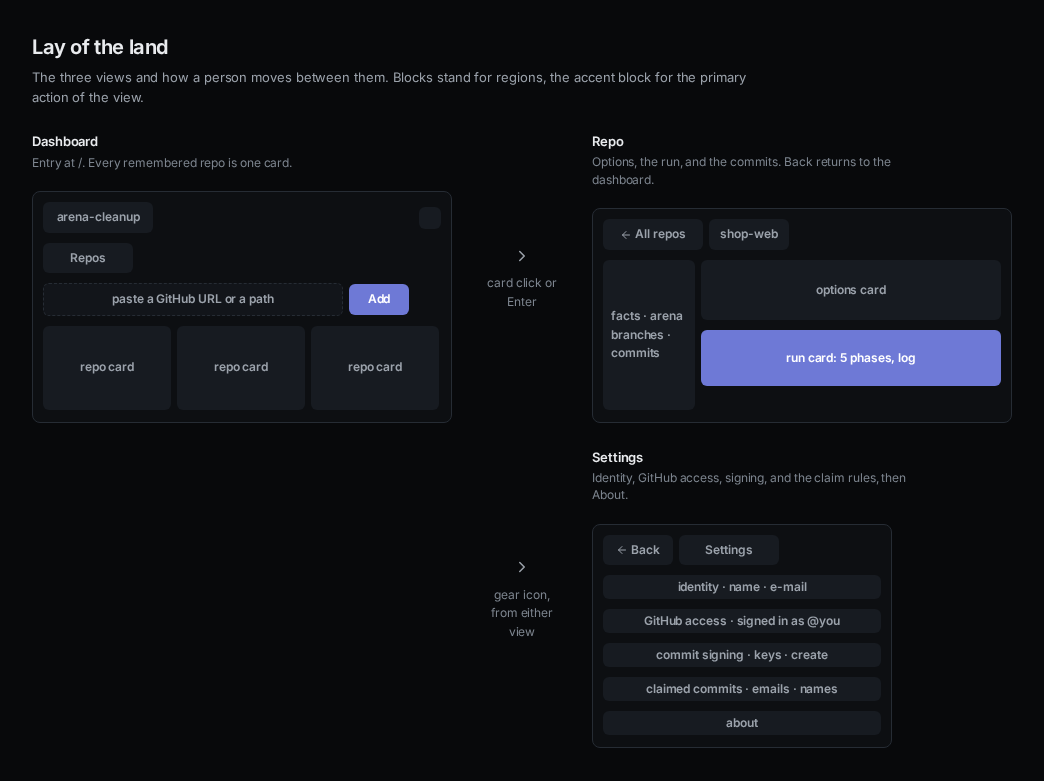
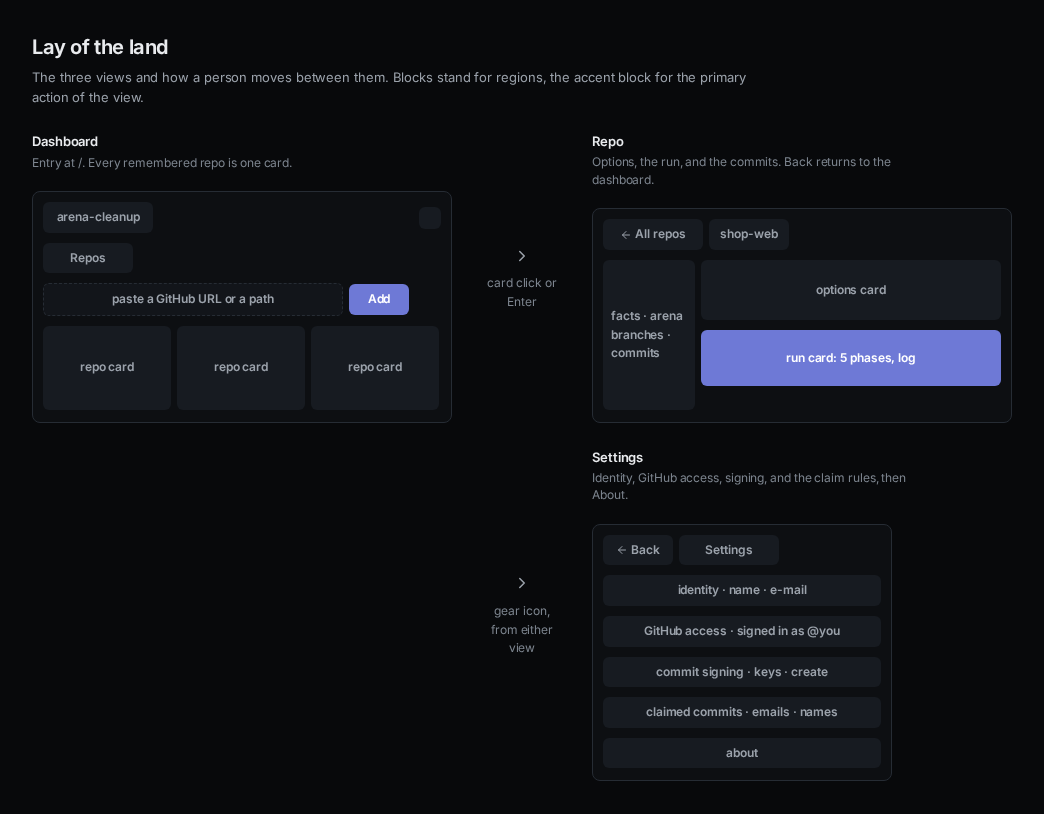
fix(docs): wireframe blocks grow with their text and marks use glyphs

diff --git a/scripts/design_boards.py b/scripts/design_boards.py
@@ -121,6 +121,10 @@ BOARD_CSS = """
   color: var(--muted); padding: 6px 8px; }
 .wf .blk.lbl.hi { color: #fff; }
 .wf .bar { display: flex; gap: 6px; align-items: center; }
+.wf .wbox { display: inline-flex; width: 12px; height: 12px; margin-right: 6px; align-items: center;
+  justify-content: center; border: 1px solid var(--line-2); border-radius: 3px; font-size: 10px; }
+.wf .wbox.on { background: var(--accent); border-color: var(--accent); color: #fff; }
+.wf .down { transform: rotate(90deg); }
 .wf .arrow { align-self: center; color: var(--dim); font-size: var(--fs-1); display: flex; flex-direction: column;
   align-items: center; gap: 4px; padding: 0 4px; width: 92px; text-align: center; }
 .wf .arrow b { font-size: 18px; color: var(--muted); }
@@ -209,10 +213,17 @@ def block(
   )
   style = ";".join(
     s
-    for s in (f"height:{height}px" if height else "", f"width:{width}" if width else "")
+    for s in (
+      f"min-height:{height}px" if height else "",
+      f"width:{width}" if width else "",
+    )
     if s
   )
   return f'<div class="{cls}" style="{style}">{label}</div>'
+
+
+def wbox(on: bool) -> str:
+  return f'<span class="wbox{" on" if on else ""}">{icon("check") if on else ""}</span>'
 
 
 def frame(title: str, sub: str, body: str) -> str:
@@ -312,7 +323,12 @@ def flow_board(_: dict[str, bytes]) -> str:
 def wireframe_board(_: dict[str, bytes]) -> str:
   column = '<div class="col" style="flex:1;gap:8px;align-items:stretch">'
   options = (
-    block("Options ▾ — main (default) · defaults", height=28)
+    block(
+      "Options "
+      + icon("chevron-right", "ico-svg down")
+      + " — main (default) · defaults",
+      height=28,
+    )
     + '<div class="bar" style="align-items:flex-start;gap:10px">'
     + column
     + block("Target branch | main (default)", height=28)
@@ -324,20 +340,20 @@ def wireframe_board(_: dict[str, bytes]) -> str:
     + block("PR check timeout | slider, 0 to 120 min | 15 min", height=28)
     + '<div class="bar" style="flex-wrap:wrap">'
     + "".join(
-      block(t, height=24, width="auto")
-      for t in (
-        "☐ Dry Run",
-        "☐ Ignore PR Checks",
-        "☐ Keep Empty Commits",
-        "☑ Update Tags",
-        "☐ Force Push",
+      block(wbox(on) + t, height=24, width="auto")
+      for t, on in (
+        ("Dry Run", False),
+        ("Ignore PR Checks", False),
+        ("Keep Empty Commits", False),
+        ("Update Tags", True),
+        ("Force Push", False),
       )
     )
     + "</div></div></div>"
   )
   run = (
     '<div class="bar">'
-    + block("● idle", width="60px")
+    + block(icon("circle-small") + "&nbsp;idle", width="60px")
     + '<div class="grow"></div>'
     + block("Clean & Push", hi=True, width="120px")
     + block("Cancel", width="60px")

diff --git a/CHANGELOG.md b/CHANGELOG.md
@@ -40,6 +40,7 @@ and the project uses [Semantic Versioning](https://semver.org/spec/v2.0.0.html).
 - The page has three named breakpoints, 1200, 900, and 640 px. 1200 folds the options to one column, 900 stacks the sidebar, 640 starts the phone ramp.
 - Six buttons carry a Lucide glyph. Reload is `refresh-cw` alone with an accessible name. Re-check and Retry lead with `refresh-cw`, Copy log and Copy public key with `copy`, Browse with `folder-tree`. Show log carries the fold caret.
 - The page matches its design record after an audit. Every banner leads with its glyph. Pointer targets are at least 24 px: Browse, the chip X, the tree select, the check rows, and the slider. The version chip weighs 520 and bold runs 600. A dead brand size rule goes, and two paddings sit on the scale.
+- The repo wireframe board grows its blocks with their text, and its marks are glyphs instead of font symbols.
 - Log rows show the clock of the browser. The engine stamps each line in the server zone.
 - Remove on a card deletes its URL clone from the volume. A path repo is only forgotten.
 - `POST /api/repos/<id>/reset`: fetch, check out the default branch, and reset it hard. Untracked files stay.
